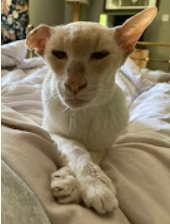
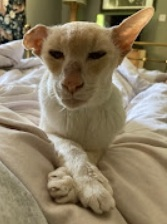
Fix some of the images.

diff --git a/index.html b/index.html
@@ -174,7 +174,7 @@
       color: var(--keyboard-ink);
       font-weight: 800;
       font-size: 0.82rem;
-      min-height: 2.6rem;
+      min-height: 3.25rem;
       min-width: 0;
       cursor: pointer;
       touch-action: manipulation;
@@ -227,9 +227,9 @@
       width: min(100%, 420px);
       max-width: 420px;
       background: #fff;
-      border-radius: 16px;
+      border-radius: 0;
       box-shadow: 0 24px 60px rgba(0, 0, 0, 0.16);
-      overflow: hidden;
+      overflow: visible;
       text-align: center;
       color: var(--ink);
     }
@@ -240,6 +240,7 @@
       height: auto;
       object-fit: cover;
       max-height: 320px;
+      border-radius: 0;
     }
 
     .modal-body {
@@ -295,7 +296,7 @@
       }
 
       .key {
-        min-height: 2.3rem;
+        min-height: 2.875rem;
         font-size: 0.74rem;
         padding: 0 0.12rem;
       }
@@ -334,7 +335,7 @@
       }
 
       .key {
-        min-height: 2.35rem;
+        min-height: 2.9375rem;
       }
     }
   </style>
@@ -883,7 +884,7 @@
     let enterHoldTimer = null;
     let suppressEnterTap = false;
 
-    const HELP_HOLD_MS = 3000;
+    const HOLD_MS = 800;
 
     const allowedWords = new Set(BRITISH_WORDS);
     const CELEBRATION_IMAGES = [
@@ -968,8 +969,8 @@
           suppressEnterTap = false;
           enterHoldTimer = setTimeout(() => {
             suppressEnterTap = true;
-            giveHint();
-          }, HELP_HOLD_MS);
+            announce("Hey! No cheating.");
+          }, HOLD_MS);
         };
 
         const endHold = () => {
@@ -1108,21 +1109,6 @@
       return guesses.some((guess) => guess[position] === expectedLetter);
     }
 
-    function giveHint() {
-      if (gameOver) {
-        announce("Game is over. Start a new game for hints.");
-        return;
-      }
-
-      for (let i = 0; i < COLS; i += 1) {
-        if (!isPositionAlreadyGuessed(i)) {
-          announce(`Hint: letter ${i + 1} is ${solution[i]}.`);
-          return;
-        }
-      }
-
-      announce("All letter positions have already been guessed.");
-    }
 
     function submitGuess() {
       if (currentGuess.length < COLS) {
